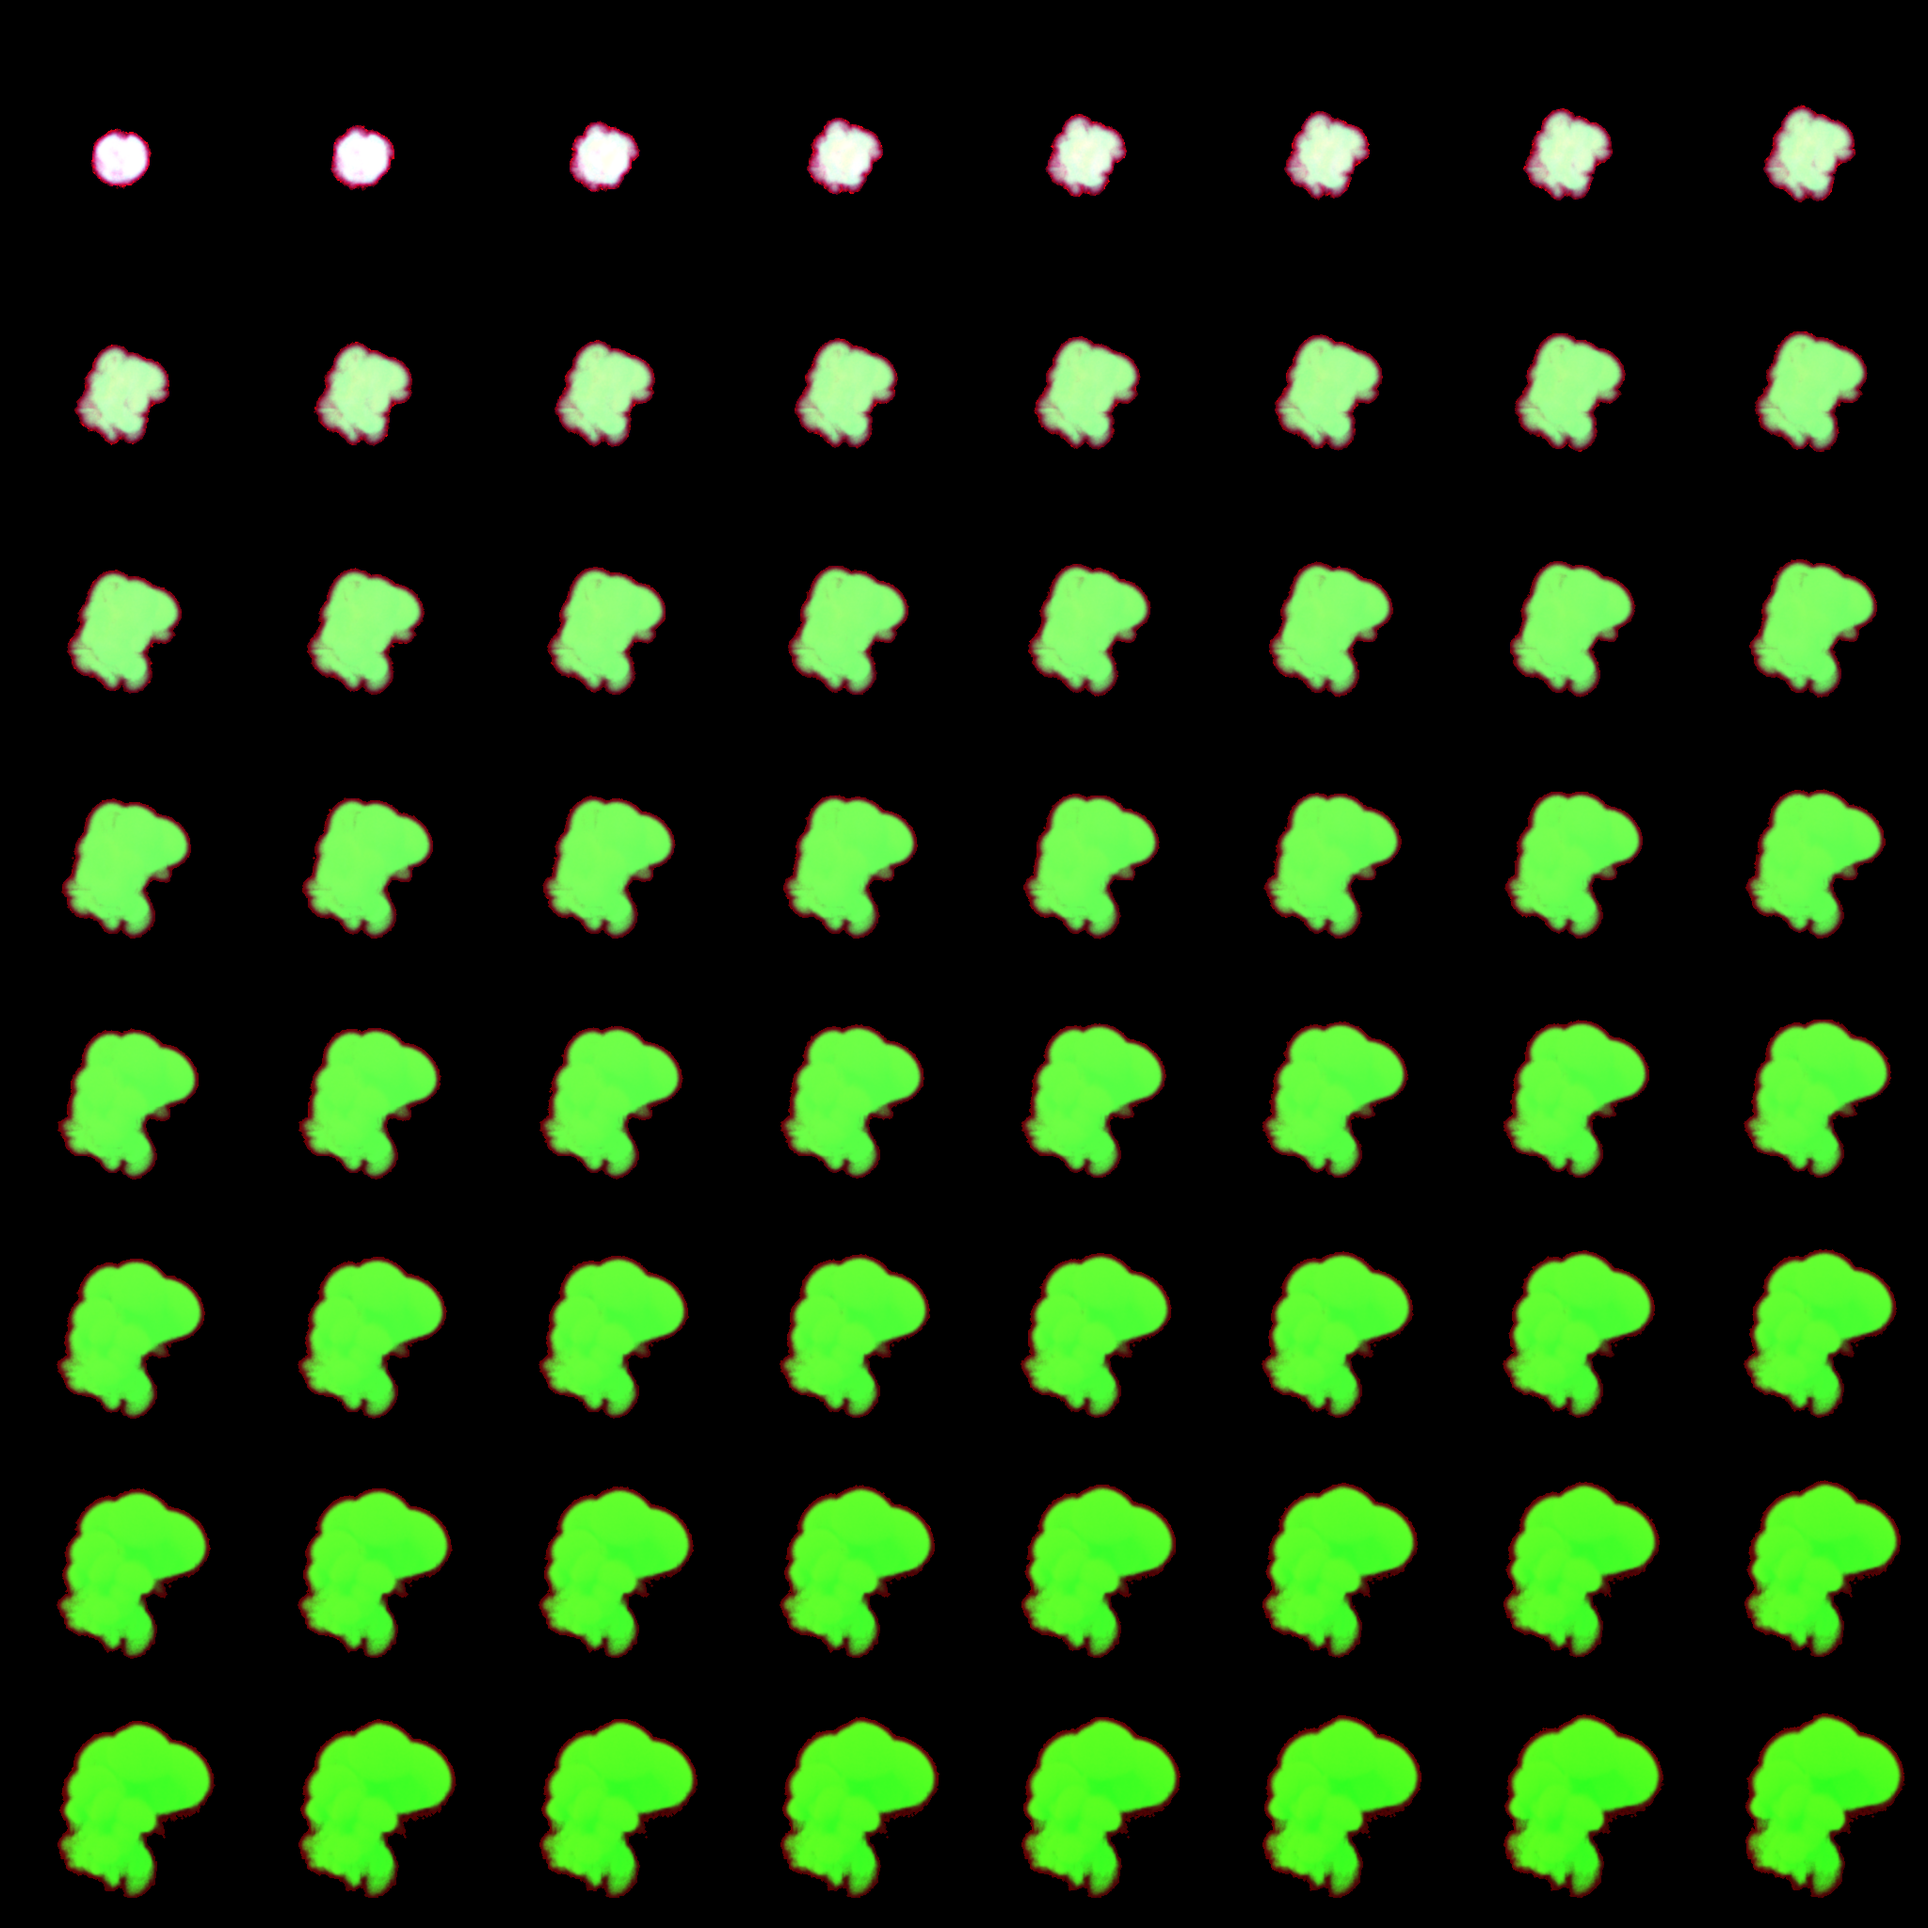
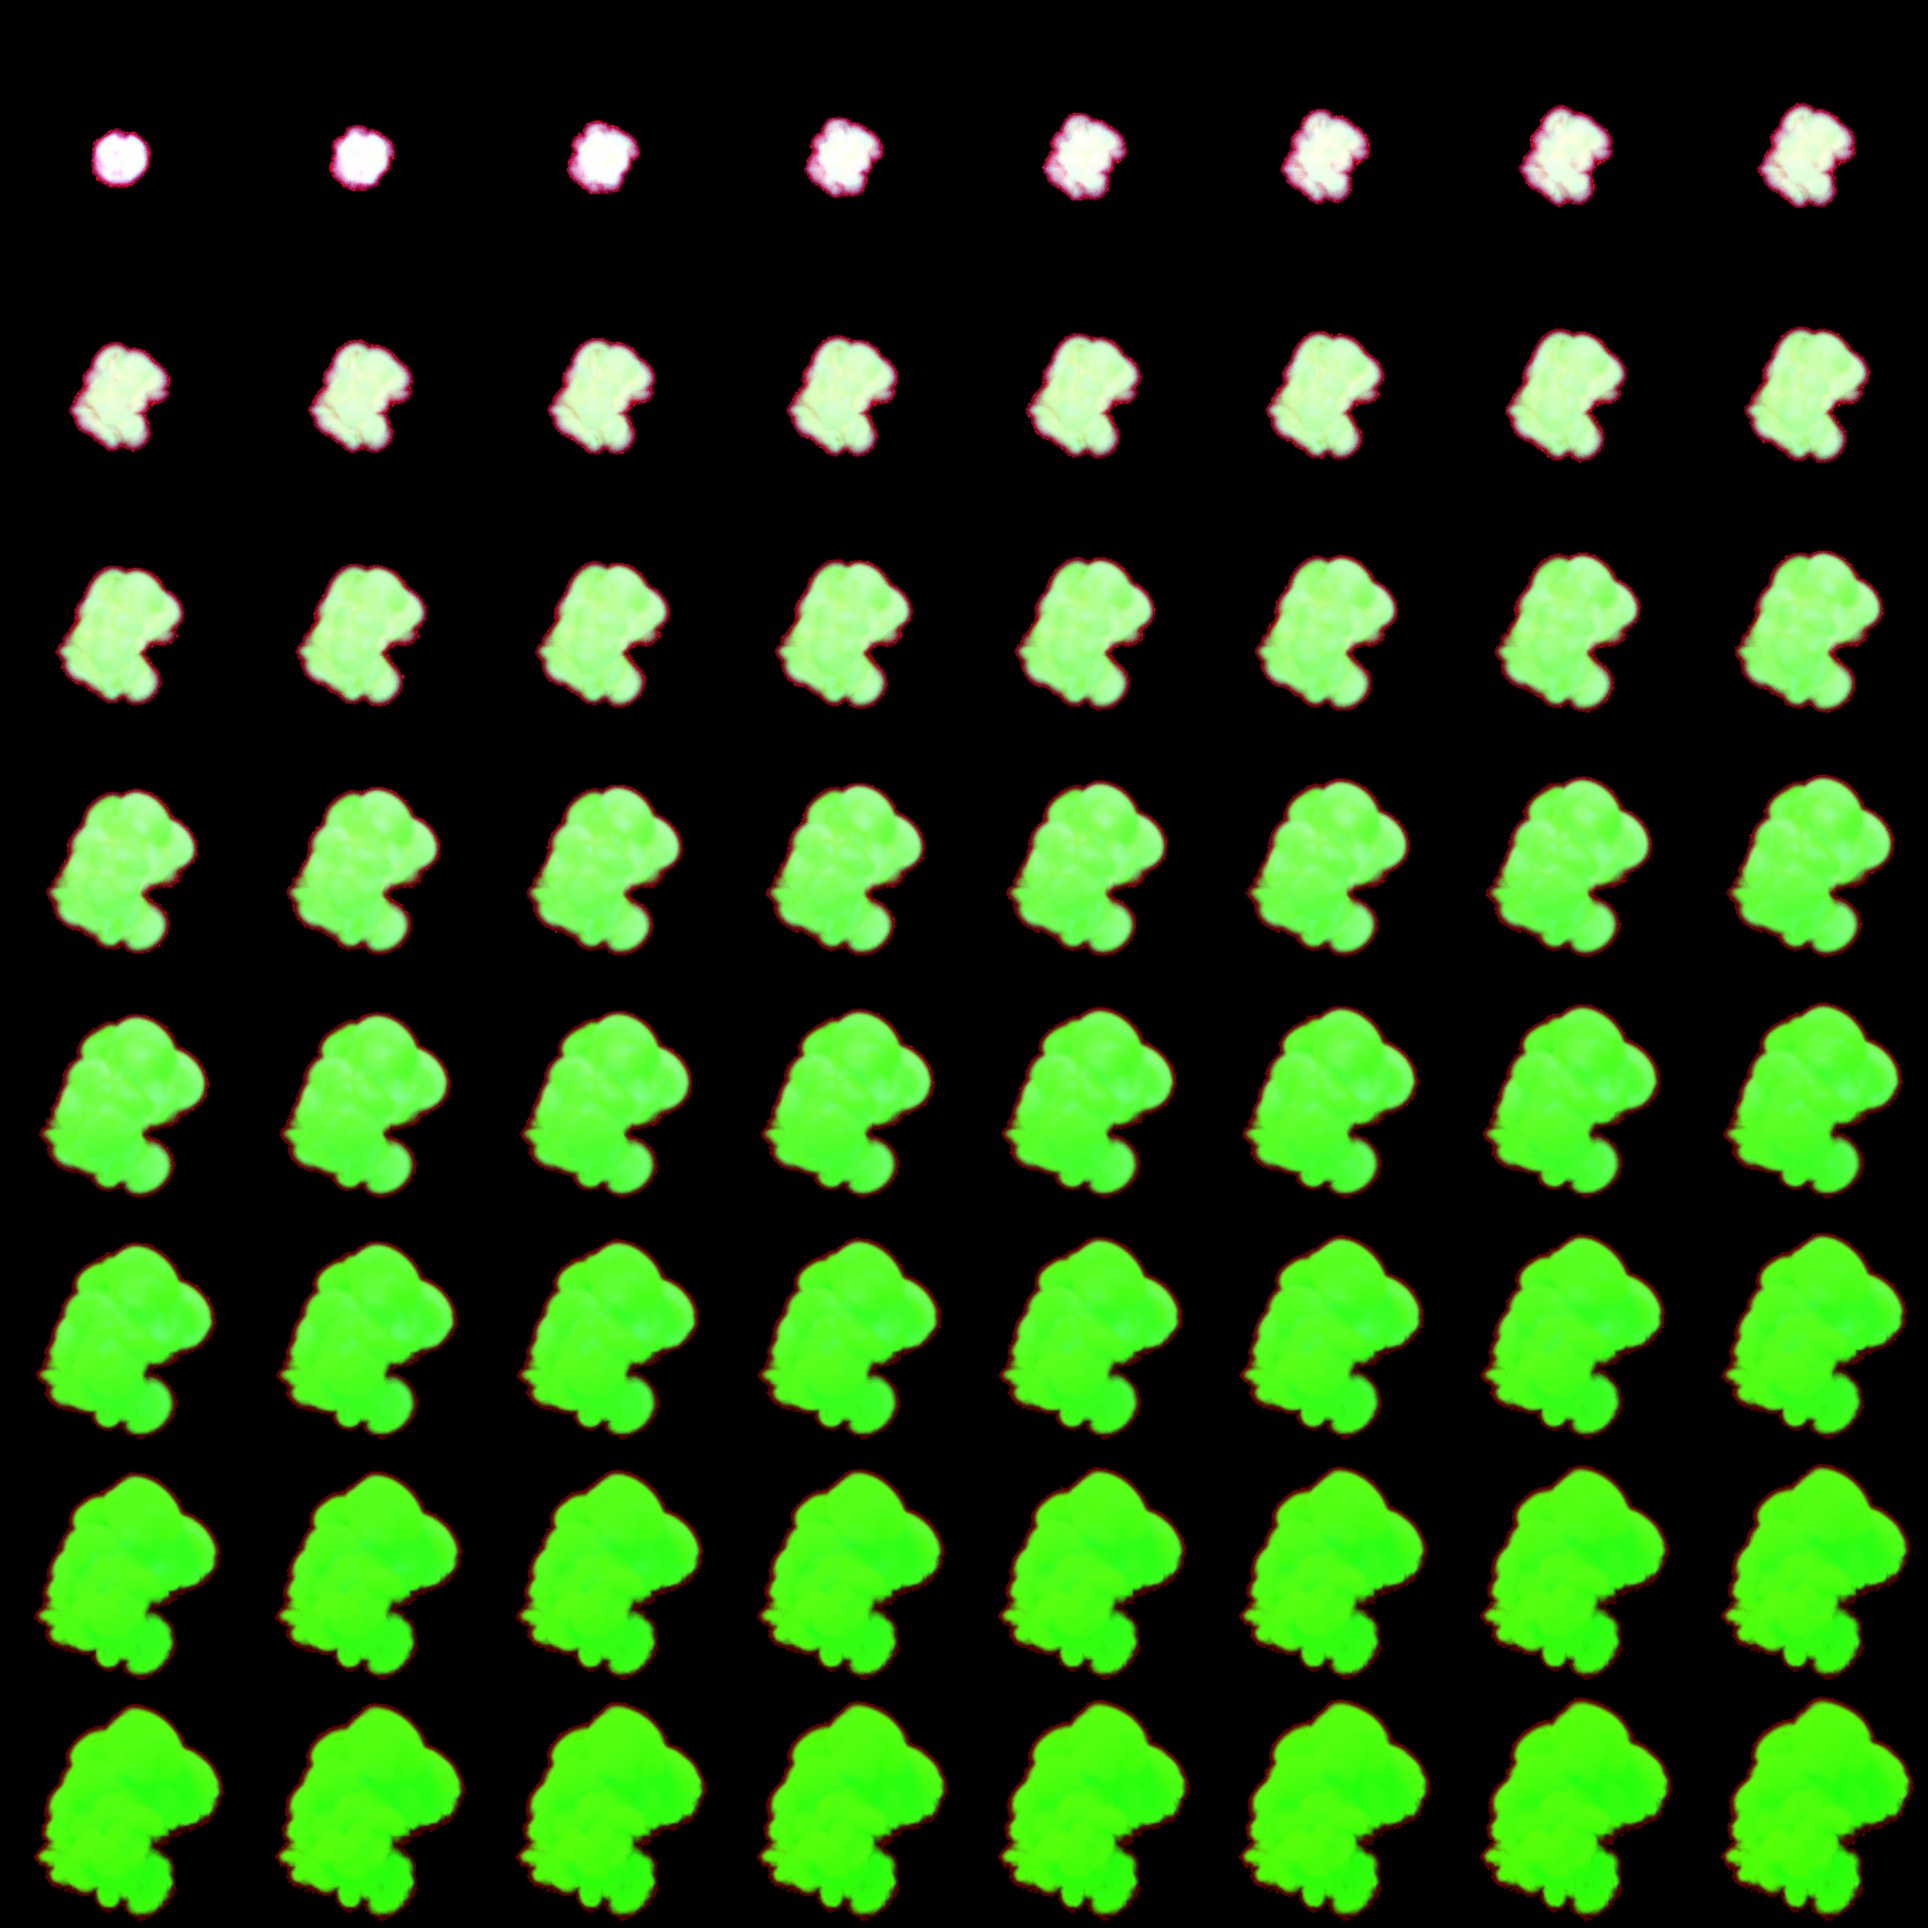
Blast that burns like a fireball, soft billow edges, bluer Order blasts
- The blast sheet was one flat color: its fuel burnt evenly everywhere, so the
  flame had no hot heart or cooler folds. gas.py gains a second burn model
  (reaction, flame_rate, glow): thick fuel is short of air and burns from its
  edges inward, the flame is what burns now plus the glow of gas still hot from
  it, and expansion follows the burning. The blast is simulated and rendered
  again with it; the other sheets are unchanged.
- Billows fade the flame as heat^1.25 at 5x (was heat at 6x), so the folds
  between hot rolls stay dark instead of clipping to one color.
- Late dust frames rose out of the top of their card, so a big tower-death
  cloud showed a straight edge: every billow now fades out near its border.
- Order's structure blasts burn azure (0x1e8cff): tone mapping turned the
  brazier blue 0x1446ff into flat violet.

Claude-Session: https://claude.ai/code/session_01CS3nLko9x1hJH4uzEaHduv

diff --git a/src/scene/Billows.ts b/src/scene/Billows.ts
@@ -1,5 +1,5 @@
 import * as THREE from 'three/webgpu';
-import { attribute, cameraPosition, float, hash, mix, select, uniform, uv, vec2, vec3, vec4 } from '../render/tsl';
+import { attribute, cameraPosition, float, hash, min, mix, select, smoothstep, uniform, uv, vec2, vec3, vec4 } from '../render/tsl';
 import { FLIPBOOK_ASPECT, FLIPBOOK_FRAMES, sampleFlipbook, unpackFlipbook, type FlipbookName } from '../render/flipbook';
 import { spriteQuads } from '../render/shared';
 
@@ -147,11 +147,14 @@ function billowMaterial(sheet: BillowSheet, now: any): THREE.SpriteNodeMaterial 
   const s = unpackFlipbook(sampleFlipbook(sheet, t.mul(FLIPBOOK_FRAMES - 1), vec2(fu, u.y), false));
   // lit from above in the render; the shadowed side keeps a little sky
   const smoke = tint.rgb.mul(mix(float(0.32), float(1.15), s.lit));
-  const fade = float(1).sub(t.pow(3)).mul(alive);
+  // late dust frames rise out of the top of their frame: fade every border so a big card never shows a straight edge
+  const edge = smoothstep(0, 0.1, min(fu, float(1).sub(fu))).mul(smoothstep(0, 0.05, u.y)).mul(smoothstep(0, 0.2, float(1).sub(u.y)));
+  const fade = float(1).sub(t.pow(3)).mul(alive).mul(edge);
   const a = s.alpha.mul(fade);
   const hot = hexColor(flame.x);
   const cool = hexColor(flame.y);
-  const fire = mix(hot, cool, s.heat.pow(1.5)).mul(s.heat).mul(6).mul(fade);
+  // (heat^1.25 keeps the cooler folds of a fireball dark between its hot rolls)
+  const fire = mix(hot, cool, s.heat.pow(1.5)).mul(s.heat.pow(1.25)).mul(5).mul(fade);
   m.colorNode = vec4(smoke.mul(a).add(fire), 1);
   m.opacityNode = a;
   return m;

diff --git a/src/combat/UnitViews.ts b/src/combat/UnitViews.ts
@@ -14,6 +14,15 @@ import type { Billows } from '../scene/Billows';
 import { TEAM_STYLE } from '../scene/structures/common';
 
 const _cloudAt = new THREE.Vector3();
+/**
+ * A structure's blast in its team's fire. Order's is lighter than its brazier
+ * blue: tone mapping pushes a bright pure blue toward violet, so a blast in
+ * 0x1446ff read as purple paint.
+ */
+const BLAST_FLAME: Record<'order' | 'chaos', [number, number]> = {
+  order: [0x1e8cff, 0xd4f6ff],
+  chaos: [TEAM_STYLE.chaos.fire.low, TEAM_STYLE.chaos.fire.high],
+};
 
 /** Which pool of spare models a summon's look draws from. */
 const summonKey = (look: SummonLook): string => `${look.god}|${look.variant}`;
@@ -310,8 +319,7 @@ export class UnitViews {
     const b = this.billows;
     if (!b) return;
     const p = v.root.getWorldPosition(_cloudAt);
-    const fire = TEAM_STYLE[u.side === 'chaos' ? 'chaos' : 'order'].fire;
-    const flame: [number, number] = [fire.low, fire.high];
+    const flame = BLAST_FLAME[u.side === 'chaos' ? 'chaos' : 'order'];
     if (u.kind === 'phoenix') {
       b.spawn('blast', p.x, p.y + 6.2, p.z, rising ? 7 : 9.5, { duration: 1.6, tint: 0x5a4c44, flame, rise: 0.6 });
       if (!rising) {

diff --git a/tools/vfx/gas.py b/tools/vfx/gas.py
@@ -25,6 +25,8 @@ class Gas:
         self.heat = z()
         self.fuel = z()
         self.flame = z()
+        # fuel burnt per second in each cell (the flame_rate model's flame and expansion)
+        self.burning = z()
         self.idx = np.indices(self.shape, dtype=np.float32)
         # eigenvalues of the 7-point Laplacian under a type-I sine transform (p = 0 on the box)
         lam = np.zeros(self.shape, np.float64)
@@ -85,12 +87,12 @@ class Gas:
         self.floor()
         # burning gas expands: the pressure solve keeps that much divergence where the flame is
         expand = p.get('expand', 0.0)
-        self.project(self.flame * expand if expand else None)
+        self.project((self.burning if 'flame_rate' in p else self.flame) * expand if expand else None)
         self.floor()
         coords = self.backtrace(dt)
         fwd = self.idx + self.u * (dt / h)
         self.density = self.advect(self.density, coords, fwd, sharp=True)
-        self.heat = self.advect(self.heat, coords)
+        self.heat = self.advect(self.heat, coords, fwd, sharp=p.get('sharp_heat', False))
         if self.fuel.any():
             self.fuel = self.advect(self.fuel, coords, fwd, sharp=True)
         self.burn(dt, p)
@@ -99,14 +101,24 @@ class Gas:
         self.heat *= np.float32(np.exp(-dt * p.get('cool', 1.5)))
 
     def burn(self, dt, p):
-        if not self.fuel.any():
+        if not self.fuel.any() and 'flame_rate' not in p:
             self.flame[:] = 0
             return
         rate = p.get('burn', 1.5)
+        reaction = p.get('reaction', 0.0)
+        if reaction:
+            # thick fuel is short of air: it burns from its edges inward, so the flame is a shell around the core
+            rate = rate * (1 - reaction * np.clip(self.fuel / p.get('fuel_ref', 1.0), 0, 1))
         burnt = self.fuel * (1 - np.exp(-dt * rate))
         self.fuel -= burnt
         self.heat += burnt * p.get('flame_heat', 4.0)
         self.density += burnt * p.get('flame_smoke', 0.3)
+        if 'flame_rate' in p:
+            # the flame is where fuel is burning now, plus the glow of gas still hot from it
+            self.burning = (burnt / dt).astype(np.float32)
+            glow = np.maximum(self.heat - p.get('ignite', 0.5), 0) * p.get('glow', 0.0)
+            self.flame = np.clip(self.burning * p['flame_rate'] + glow, 0, 4).astype(np.float32)
+            return
         # the flame is the fuel that is burning: bright where it is thick
         self.flame = np.clip(self.fuel * p.get('flame_gain', 1.4), 0, 4).astype(np.float32)
 

diff --git a/tools/vfx/flipbooks.py b/tools/vfx/flipbooks.py
@@ -78,8 +78,10 @@ SHEETS = {
     'blast': dict(
         frame=(256, 256), domain=(6.4, 6.4, 6.4), voxel=0.0571, ortho=6.4, look=(3.2, 3.2, 3.2), elevation=0,
         settle=0, loop=False,
-        source=dict(shape='sphere', at=(3.2, 3.2, 2.2), size=(0.7, 0.7, 0.7), fuel=1.6, density=0.8, heat=1.2, velocity=(0, 0, 1.0), normal=6.0, until=3, swirl=1.8, churn=1.5),
-        gas=dict(beta=1.2, alpha=0.05, vorticity=3.5, burn=1.8, flame_heat=2.0, flame_smoke=2.0, flame_gain=1.3, expand=2.2, dissolve=0.15, cool=1.5),
+        source=dict(shape='sphere', at=(3.2, 3.2, 2.2), size=(0.7, 0.7, 0.7), fuel=1.6, density=0.8, heat=1.2, velocity=(0, 0, 1.0), normal=6.0, until=3, swirl=2.5, churn=1.5),
+        # the fuel burns from its edges inward and the hot gas glows as it cools, so the fireball has a hot heart and darker folds
+        gas=dict(beta=1.2, alpha=0.05, vorticity=6.0, burn=4.0, reaction=0.85, fuel_ref=1.6, flame_rate=0.6, glow=1.0, ignite=0.6, sharp_heat=True,
+                 flame_heat=2.0, flame_smoke=1.6, expand=2.2, dissolve=0.15, cool=2.2),
         shade=dict(density=8.0, flame=24.0),
     ),
 }

diff --git a/tools/vfx/README.md b/tools/vfx/README.md
@@ -24,6 +24,10 @@ Why not Blender's own smoke: in the Ubuntu 4.0 package Mantaflow aborts on its
 first step under Python 3.12 and Cycles crashes on any OpenVDB volume. So
 `gas.py` is a small stable-fluids solver (BFECC advection, vorticity
 confinement, an exact DST pressure solve, burning fuel, and expansion where it
-burns so a blast bursts outward), and each frame reaches Cycles as a
+burns so a blast bursts outward). The blast uses its second burn model
+(`reaction`, `flame_rate`, `glow`): thick fuel is short of air and burns from
+its edges inward, and the flame is what burns now plus the glow of gas still
+hot from it, so the fireball has hot rolls and darker folds rather than one
+flat color, and each frame reaches Cycles as a
 slice-atlas image read by a box's volume shader. That build also has no
 denoiser, so the packer blurs each frame very slightly.
